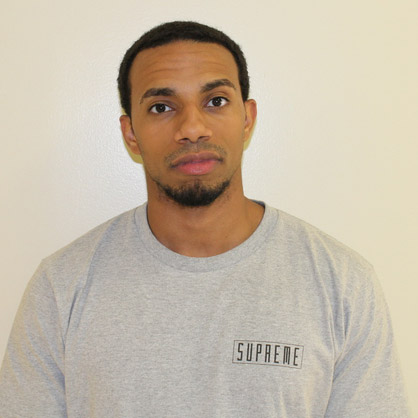
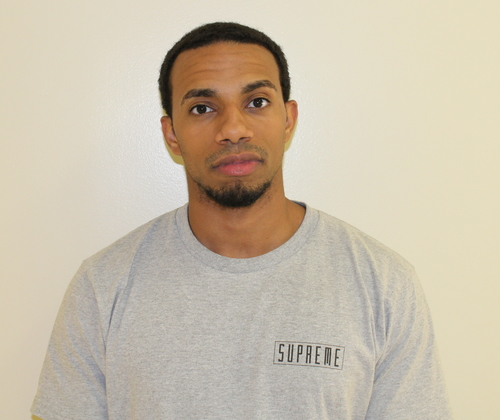
Added headshot and description

diff --git a/people.md b/people.md
@@ -54,6 +54,13 @@ permalink: /people/
 
 * PhD student, Department of Applied Mathematics and Statistics, Stony Brook University
 
+{: .person-name }
+## Josue Nassar
+![Josue Nassar](/images/Josue.jpg){: .profile-photo }
+
+* PhD student, Department of Electrical & Computer Engineering, Stony Brook University
+* Co-advised by Dr. Mónica F. Bugallo
+
 ## Future lab member
 ![Cartoon MRI head](/images/MRI_brain_outline_memming.png){: .profile-photo }
 
